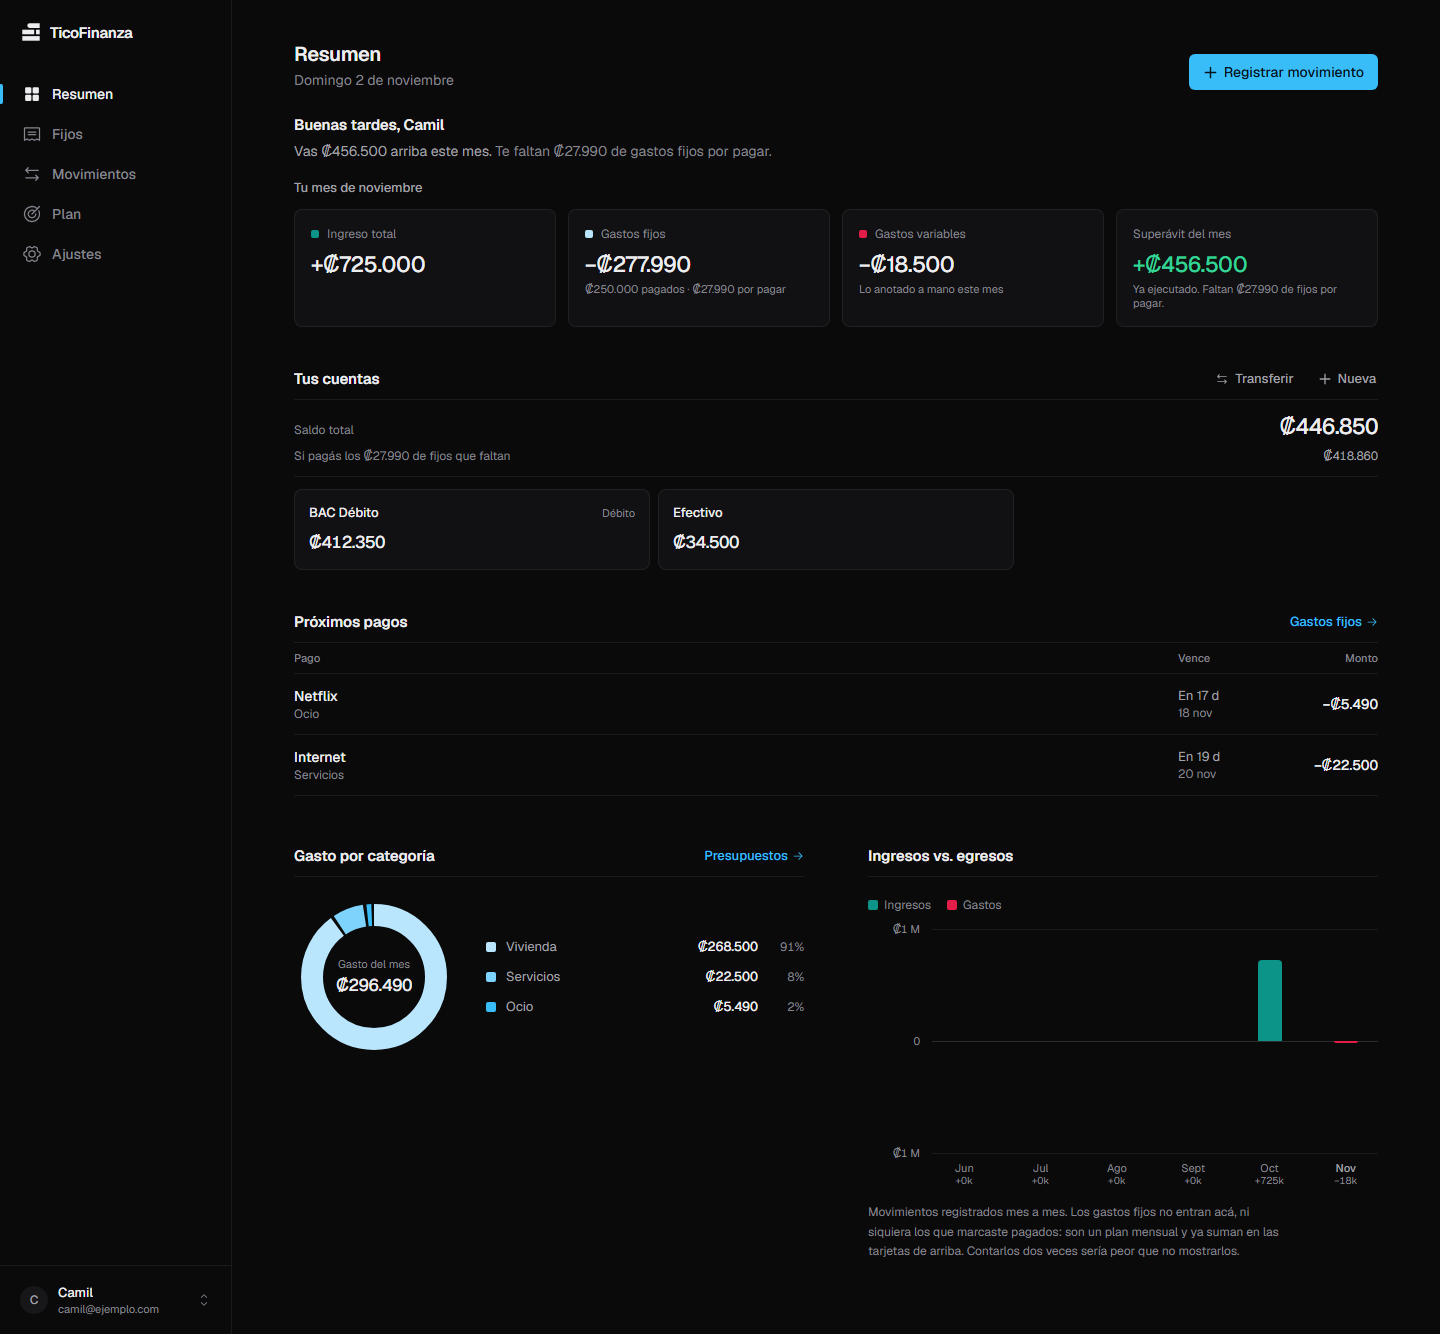
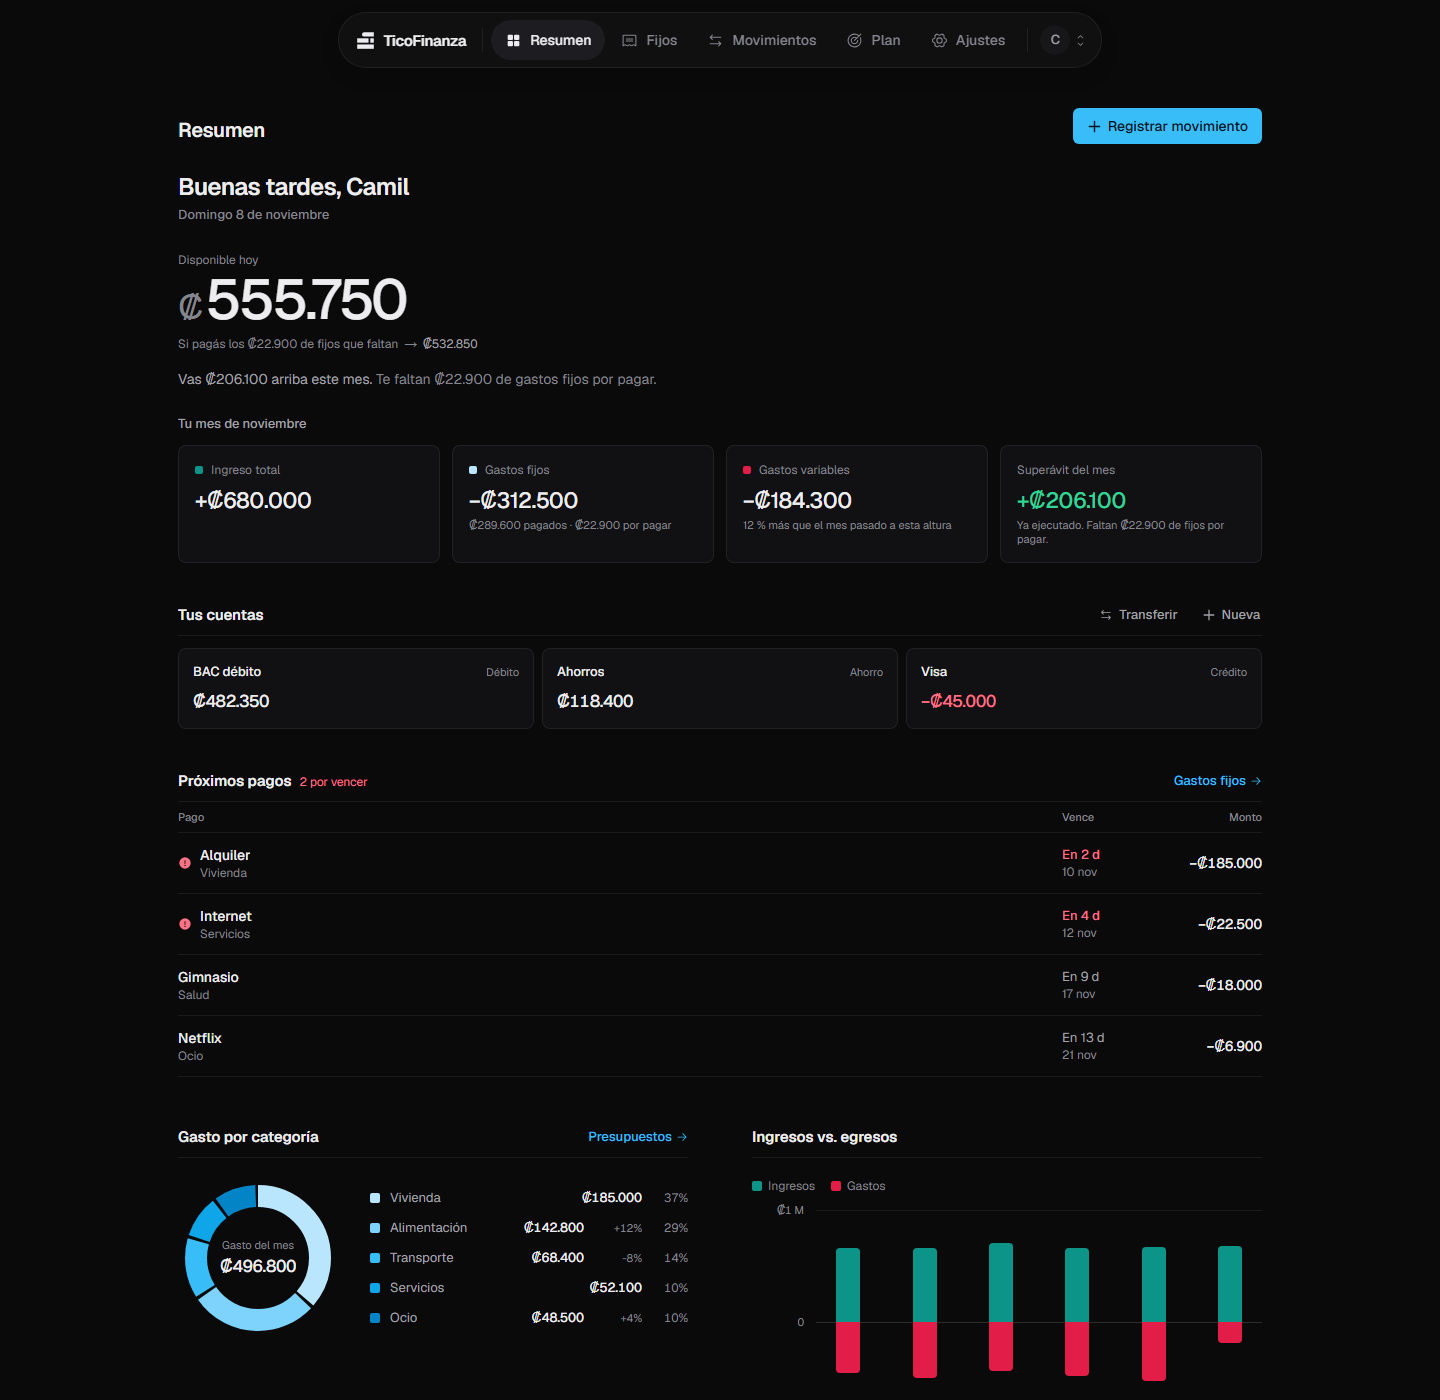
feat: /entrar se rediseña con el producto de fondo
Eran dos mitades exactas, las dos oscuras y separadas por una línea:
ninguna mandaba, y en una página cuyo único trabajo es que toques un botón
no saber dónde mirar es el problema más caro. La mitad derecha se había
vuelto una landing metida en media pantalla, con cuatro bloques de texto
que ya se salían.

Ahora hay una sola jerarquía: una captura real del resumen de fondo,
difuminada y con velo, y una tarjeta opaca encima con la marca, el
titular, la casilla y el botón.

La captura es de verdad y no una maqueta dibujada a mano: la anterior
mostraba números inventados y todavía dibujaba el rail lateral que ya no
existe, así que lo que se prometía no era lo que se abría. Se regeneraron
las tres capturas, incluida la de la landing.

Hay una por tema y se eligen con una variable de CSS, no con dos <img> y
display:none: así el navegador baja solo la que corresponde, comprobado
mirando los pedidos de red. La fuerza del velo también cambia con el tema,
porque sobre la captura oscura un velo igual de fuerte la deja en negro.

En teléfono no hay fondo: una captura de escritorio a 390px no se lee.

diff --git a/components/auth/AuthPage.tsx b/components/auth/AuthPage.tsx
@@ -1,41 +1,29 @@
 import Link from "next/link";
-import { CalendarCheck, ChartDonut, ListChecks } from "@phosphor-icons/react/dist/ssr";
-import { HeroMockup } from "@/components/landing/HeroMockup";
 import { Logo } from "@/components/Logo";
 import { AUTH_CONFIGURATION_ERROR, getSupabaseConfig } from "@/lib/supabase/config";
 import { GoogleSignIn } from "./GoogleSignIn";
 import { IdleNoticeDialog } from "./IdleNoticeDialog";
 
-const POINTS = [
-  {
-    icon: ListChecks,
-    title: "Tus gastos fijos, con su día de cobro",
-    body: "Marcás pagado y el mes siguiente vuelve a empezar.",
-  },
-  {
-    icon: CalendarCheck,
-    title: "Qué se vence primero",
-    body: "Ordenados por el que vence primero, con los días que faltan.",
-  },
-  {
-    icon: ChartDonut,
-    title: "En qué se te va la plata",
-    body: "Ingresos, fijos, variables y lo que queda.",
-  },
-];
-
 /**
  * Pantalla de entrada.
  *
- * El panel derecho muestra el producto, no una lista de promesas: la
- * pregunta de quien está por entrar es "¿qué voy a ver adentro?", y la
- * tarjeta del resumen la contesta mejor que tres párrafos. Es la misma
- * pieza que usa la landing, así que lo que se promete y lo que se abre son
- * literalmente lo mismo.
+ * **El producto va de fondo y la tarjeta flota encima.** Antes eran dos
+ * mitades exactas, las dos oscuras y separadas por una línea: ninguna
+ * mandaba, y en una página cuyo único trabajo es que toques un botón, no
+ * saber dónde mirar es el problema más caro. La mitad derecha además se
+ * había convertido en una landing metida en media pantalla —titular,
+ * bajada, una maqueta y cuatro bloques de texto, que ya no cabían.
  *
- * La entrada va escalonada con `animate-fade-up` (la utilidad que ya existe
- * en globals.css y que respeta `prefers-reduced-motion`): una sola
- * secuencia al cargar, nada que se repita ni que responda al scroll.
+ * Ahora hay una sola jerarquía: la tarjeta. El fondo contesta "¿qué voy a
+ * ver adentro?" sin pedir que lo lean, porque **es una captura de verdad
+ * del resumen**, no una maqueta dibujada a mano que se desactualiza contra
+ * la app (la anterior todavía mostraba el rail lateral que ya no existe).
+ *
+ * Hay una captura por tema y se eligen con una variable de CSS
+ * (`--shot-entrar`), así el navegador baja solo la que corresponde.
+ *
+ * En teléfono no hay fondo: una captura de escritorio reducida a 390px no
+ * se lee, y de paso la página pesa menos justo donde la conexión es peor.
  */
 export function AuthPage({
   initialError,
@@ -50,81 +38,40 @@ export function AuthPage({
   const configured = Boolean(getSupabaseConfig());
 
   return (
-    <main className="grid min-h-[100dvh] bg-ground lg:grid-cols-[minmax(0,1fr)_minmax(0,1.05fr)]">
+    <main className="relative flex min-h-[100dvh] items-center justify-center overflow-hidden bg-ground px-4 py-10 sm:px-6">
       {idleNotice && <IdleNoticeDialog />}
 
-      <div className="flex flex-col justify-center px-6 py-14 sm:px-10 lg:px-14 xl:px-20">
-        <div className="mx-auto flex w-full max-w-[26rem] flex-col">
-          <Link
-            href="/"
-            aria-label="TicoFinanza, ir al inicio"
-            className="animate-fade-up mb-12 w-fit rounded-control"
-          >
-            <Logo subtitle="finanzas personales" size="lg" accent />
-          </Link>
-
-          <h1 className="animate-fade-up text-balance text-[2rem] font-semibold leading-[1.1] tracking-[-0.03em] text-ink [animation-delay:70ms] sm:text-[2.25rem]">
-            Entrá a tu cuenta
-          </h1>
-          <p className="animate-fade-up mt-3 text-sm leading-relaxed text-ink-2 [animation-delay:130ms]">
-            Con tu cuenta de Google. Sin contraseñas que recordar, y sin acceso a tus correos ni a
-            tu banco.
-          </p>
-
-          <div className="animate-fade-up mt-8 [animation-delay:190ms]">
-            <GoogleSignIn
-              disabled={!configured}
-              initialError={configured ? initialError : AUTH_CONFIGURATION_ERROR}
-              signOutWarning={signOutWarning}
-            />
-          </div>
-
-          <p className="animate-fade-up mt-8 border-t border-line pt-6 text-meta leading-relaxed text-ink-3 [animation-delay:250ms]">
-            Solo usamos tu nombre, tu correo y tu foto de perfil para identificarte.
-          </p>
-
-          {/* En teléfono el panel de la derecha no se muestra, así que acá va
-              lo mínimo para saber qué hay adentro. */}
-          <ul className="animate-fade-up mt-5 flex flex-col gap-2 [animation-delay:310ms] lg:hidden">
-            {POINTS.map((point) => (
-              <li key={point.title} className="flex items-start gap-2.5 text-meta text-ink-3">
-                <point.icon size={14} aria-hidden className="mt-0.5 shrink-0" />
-                {point.title}
-              </li>
-            ))}
-          </ul>
-        </div>
+      <div aria-hidden className="pointer-events-none absolute inset-0 hidden md:block">
+        <div className="fondo-entrar absolute inset-0" />
+        {/* El velo (ver `.velo-entrar` en globals.css): la captura tiene
+            que leerse como textura, no como algo que haya que mirar. */}
+        <div className="velo-entrar absolute inset-0" />
       </div>
 
-      <aside
-        aria-label="Qué vas a encontrar adentro"
-        className="relative hidden overflow-hidden border-l border-line bg-surface lg:flex lg:flex-col lg:justify-center lg:px-14 xl:px-20"
-      >
-        <div className="w-full max-w-lg">
-          <p className="animate-fade-up text-[1.375rem] font-semibold leading-snug tracking-[-0.02em] text-ink [animation-delay:160ms]">
-            Lo que entra, lo que sale y lo que se viene.
-          </p>
-          <p className="animate-fade-up mt-2 max-w-[44ch] text-sm leading-relaxed text-ink-3 [animation-delay:220ms]">
-            Un registro manual, sin conectar bancos ni correos: vos anotás, la app lleva la cuenta.
-          </p>
+      <div className="animate-fade-up relative w-full max-w-[25.5rem] rounded-dialog border border-line bg-surface p-6 shadow-[0_30px_80px_-24px_rgb(0_0_0/0.55)] sm:p-8">
+        <Link
+          href="/"
+          aria-label="TicoFinanza, ir al inicio"
+          className="inline-block w-fit rounded-control"
+        >
+          <Logo size="lg" accent />
+        </Link>
 
-          <div className="animate-fade-up mt-9 [animation-delay:300ms]">
-            <HeroMockup />
-          </div>
+        <h1 className="mt-7 text-[1.75rem] font-semibold leading-[1.1] tracking-[-0.03em] text-ink sm:text-[2rem]">
+          Entrá a tu cuenta
+        </h1>
+        <p className="mt-2.5 text-sm leading-relaxed text-ink-2">
+          Con tu cuenta de Google. Sin contraseñas, y sin acceso a tu banco ni a tus correos.
+        </p>
 
-          <ul className="animate-fade-up mt-9 grid gap-x-8 gap-y-4 [animation-delay:380ms] xl:grid-cols-2">
-            {POINTS.map((point) => (
-              <li key={point.title} className="flex gap-3">
-                <point.icon size={16} aria-hidden className="mt-0.5 shrink-0 text-ink-3" />
-                <div className="min-w-0">
-                  <p className="text-label text-ink">{point.title}</p>
-                  <p className="mt-0.5 text-meta leading-relaxed text-ink-3">{point.body}</p>
-                </div>
-              </li>
-            ))}
-          </ul>
+        <div className="mt-7">
+          <GoogleSignIn
+            disabled={!configured}
+            initialError={configured ? initialError : AUTH_CONFIGURATION_ERROR}
+            signOutWarning={signOutWarning}
+          />
         </div>
-      </aside>
+      </div>
     </main>
   );
 }

diff --git a/app/globals.css b/app/globals.css
@@ -131,6 +131,14 @@
   --cat-piedra: #78716c;
   --cat-verde: #047857;
 
+
+  /* Captura del resumen que va de fondo en /entrar, una por tema.
+     Es una variable y no dos <img> con `display:none` a propósito: el
+     navegador baja solo la URL que la variable resuelve, así que en claro
+     nunca se pide la oscura ni al revés. */
+  --shot-entrar: url("/screenshots/entrar-claro.jpg");
+  --velo-entrar: 72%;
+
   /* Fondo detrás de un diálogo abierto */
   --scrim: rgb(0 0 0 / 0.45);
 
@@ -188,6 +196,8 @@
     --cat-pizarra: #94a3b8;
     --cat-piedra: #a8a29e;
     --cat-verde: #34d399;
+    --shot-entrar: url("/screenshots/entrar-oscuro.jpg");
+    --velo-entrar: 40%;
     --scrim: rgb(0 0 0 / 0.62);
   }
 }
@@ -237,6 +247,8 @@
   --cat-pizarra: #94a3b8;
   --cat-piedra: #a8a29e;
   --cat-verde: #34d399;
+  --shot-entrar: url("/screenshots/entrar-oscuro.jpg");
+  --velo-entrar: 40%;
   --scrim: rgb(0 0 0 / 0.62);
 }
 
@@ -554,5 +566,36 @@ textarea,
     animation: none;
     opacity: 1;
     transform: none;
+  }
+}
+
+/* ---------------------------------------------------------------------------
+   Fondo de /entrar: el resumen de verdad, difuminado detrás de la tarjeta.
+--------------------------------------------------------------------------- */
+@layer components {
+  .fondo-entrar {
+    background-image: var(--shot-entrar);
+    background-size: cover;
+    background-position: top center;
+    /* El desenfoque va acá y no en un velo encima: así la captura se lee
+       como textura y nunca compite con el texto de la tarjeta. El `scale`
+       evita que el desenfoque deje los bordes transparentes. */
+    filter: blur(2px) saturate(0.9);
+    scale: 1.04;
+  }
+
+  /* El velo. La fuerza cambia con el tema (`--velo-entrar`) porque no es
+     la misma tarea: sobre la captura clara hay que bajar el contraste, y
+     sobre la oscura un velo igual de fuerte la deja en negro y el fondo
+     deja de reconocerse como la app. Los extremos van opacos para que la
+     imagen se funda con la página en vez de cortarse contra el borde. */
+  .velo-entrar {
+    background-image: linear-gradient(
+      to bottom,
+      var(--ground) 0%,
+      color-mix(in srgb, var(--ground) var(--velo-entrar), transparent) 30%,
+      color-mix(in srgb, var(--ground) var(--velo-entrar), transparent) 68%,
+      var(--ground) 100%
+    );
   }
 }

diff --git a/CLAUDE.md b/CLAUDE.md
@@ -1840,3 +1840,53 @@ de nada.
 con Playwright: la pantalla de error muestra el texto nuevo con el correo y
 el botón de reintentar, y el 404 sigue respondiendo 404 con su propio
 texto.
+
+## Dónde quedamos (2026-11-08, rediseño de /entrar)
+
+Camil pidió cambiarle la estructura. Se le propusieron tres (una columna
+centrada, asimétrica 40/60, y el producto de fondo) y eligió **el producto
+de fondo**.
+
+**Lo que estaba mal**: dos mitades exactas, las dos oscuras, separadas por
+una línea — ninguna mandaba, y en una página cuyo único trabajo es que
+toques un botón, no saber dónde mirar es el problema más caro. La mitad
+derecha se había vuelto una landing metida en media pantalla (titular,
+bajada, maqueta y cuatro bloques de texto, que ya se salían). Y la izquierda
+tenía cinco textos para un solo botón.
+
+**Lo que hay ahora**: una captura de verdad del resumen a pantalla completa,
+difuminada y con velo, y una tarjeta opaca flotando encima con la marca, el
+titular, una línea, la casilla y el botón. Se fueron los tres bloques de
+"puntos" y el aviso de "solo usamos tu nombre" (la política de privacidad
+está enlazada ahí mismo).
+
+- **La captura es de verdad, no una maqueta dibujada a mano.** La anterior
+  (`HeroMockup`) mostraba números inventados y, peor, **todavía dibujaba el
+  rail lateral que ya no existe**: lo que se prometía no era lo que se
+  abría. Se regeneraron `entrar-oscuro.jpg`, `entrar-claro.jpg` y de paso
+  `dashboard.png` (la de la landing, que estaba igual de vieja).
+- **Hay una captura por tema y se eligen con una variable de CSS**
+  (`--shot-entrar`), no con dos `<img>` y `display:none`: el navegador baja
+  **solo** la URL que la variable resuelve. Está comprobado en la QA
+  mirando los pedidos de red — en oscuro nunca se pide la clara ni al
+  revés. Con dos `<img>` se bajarían las dos. Tampoco sirve `dark:` de
+  Tailwind acá: en este proyecto el tema también se fuerza por clase
+  (`.dark`/`.light`) y esa variante solo mira `prefers-color-scheme`.
+- **La fuerza del velo cambia con el tema** (`--velo-entrar`: 72 % en claro,
+  40 % en oscuro). No es la misma tarea: sobre la captura clara hay que
+  bajar el contraste, y sobre la oscura un velo igual de fuerte la deja en
+  negro y el fondo deja de reconocerse como la app. Primera versión: el
+  mismo velo para los dos, y en oscuro la captura desaparecía.
+- **En teléfono no hay fondo.** Una captura de escritorio reducida a 390px
+  no se lee, y así la página pesa menos justo donde la conexión es peor.
+  Comprobado: a 390 y 360 no se pide ninguna imagen.
+- Las capturas son **JPEG de calidad 72** (~75 KB cada una) y no PNG: van
+  difuminadas detrás de una tarjeta, no hacen falta a pleno detalle.
+- La casilla de términos **se queda** (consentimiento explícito, decisión
+  del 2026-11-02) y sigue bloqueando el botón.
+
+**Estado**: `npm test` (178), `eslint`, `tsc` y `npm run build` limpios. QA
+con Playwright en 1440/1024/768 y 390/360, en los dos temas: **46
+comprobaciones** — sin desborde, que se baje solo la captura del tema y
+ninguna en teléfono, que la tarjeta sea opaca (el texto nunca se lee sobre
+la imagen), y que sin marcar la casilla avise y no entre.
